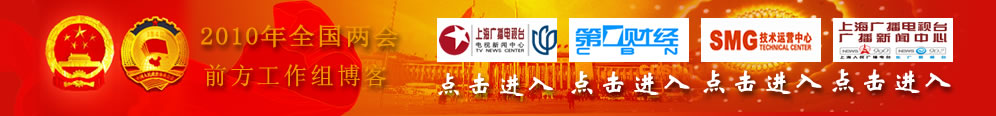
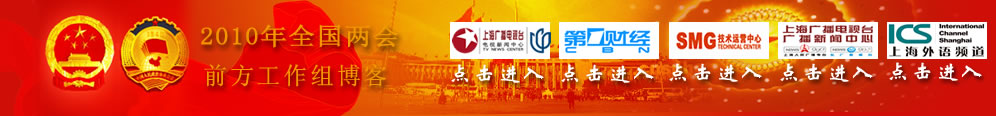
robbin

Changed region(s): [[0.4357, 0.1552, 0.996, 0.8793]]

diff --git a/css/top.css b/css/top.css
@@ -10,8 +10,8 @@ li{margin:0px; list-style-type:none;}
 #nav1 #context span{color:#999999; cursor:pointer;}
 #nav1 #home{width:51px; height:11px; margin-top:3px; margin-right:5px; float:right; display:inline;}
 #nimg1{width:995px; height:116px; background:url('/images/shanghailoianghui.jpg') no-repeat; text-align:center; margin:0 auto;}
-.deptlogo{width:120px; height:82px; margin-top:18px; cursor:pointer; float:left; display:inline;}
-.deptlogo a{width:135px; height:82px; text-decoration:none;}
+.deptlogo{width:100px; height:63px; margin-top:22px; cursor:pointer; float:left; display:inline;}
+.deptlogo a{width:100px; height:63px; text-decoration:none;}
 #nav2{margin-top:2px; width:100%; line-height:20px; height:110px; float:left; display:inline;}
 #nav2 #box{width:995px; height:110px; background:url('/images/top/bg.jpg') no-repeat; margin:0 auto;}
 /*#nav2 #logo{width:162px; height:45px; margin-top:15px; margin-left:10px; background:url(/images/top/logo1.jpg) no-repeat; float:left; display:inline;}*/

diff --git a/inc/top.inc.php b/inc/top.inc.php
@@ -33,7 +33,7 @@
 <div id=nimg1>
 	<?php $days=daysInSpan(mktime(0,0,0,date('m'),date('d'),date('Y')),mktime(0,0,0,11,01,2009));?>
 	<!--<a target="_blank" href="/news/news/news_head.php?id=32903"><img border=0 src="/images/dfws.jpg"></a>-->
-	<div class=deptlogo name="1" style="margin-left:437px;"></div><div class=deptlogo name="2" style="margin-left:12px;"></div><div class=deptlogo name="3" style="margin-left:12px;"></div><div class=deptlogo name="4" style="margin-left:12px;"></div>
+	<div class=deptlogo name="1" style="margin-left:450px;"></div><div class=deptlogo name="2" style="margin-left:9px;"></div><div class=deptlogo name="3" style="margin-left:10px;"></div><div class=deptlogo name="4" style="margin-left:9px;"></div><div class=deptlogo name="5" style="margin-left:9px;"></div>
 </div>
 <div id=nav2>
 	
@@ -176,6 +176,10 @@
 			else if(num==4)
 			{
 				location.href="http://172.27.203.81:8080/blog/?uid-3322";
+			}
+			else if(num==5)
+			{
+				location.href="http://172.27.203.81:8080/blog/?uid-3327";
 			}
 		});
 	});

diff --git a/zone/dialog.php b/zone/dialog.php
@@ -53,7 +53,6 @@
 					<?php
 						$db=get_db();
 						$answered= $db->query('select question_id from smg_dialog_answer where dialog_id='.$dialog->id);
-						alert(count($ansered));
 						if(count($answered)>0)
 						{
 							$c=array();
